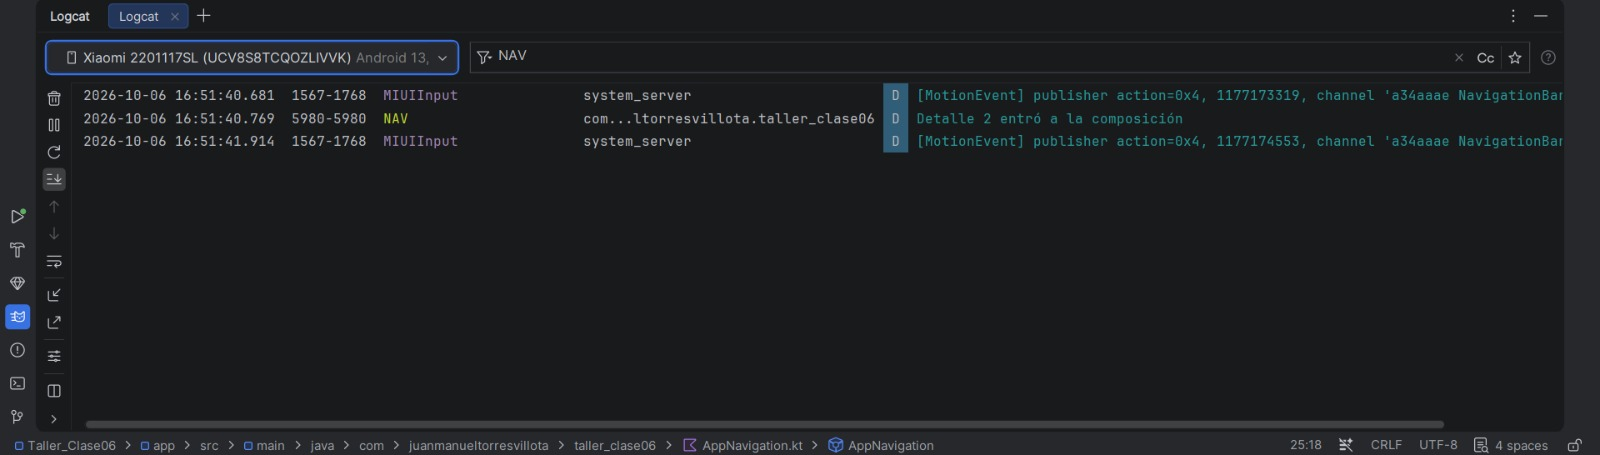
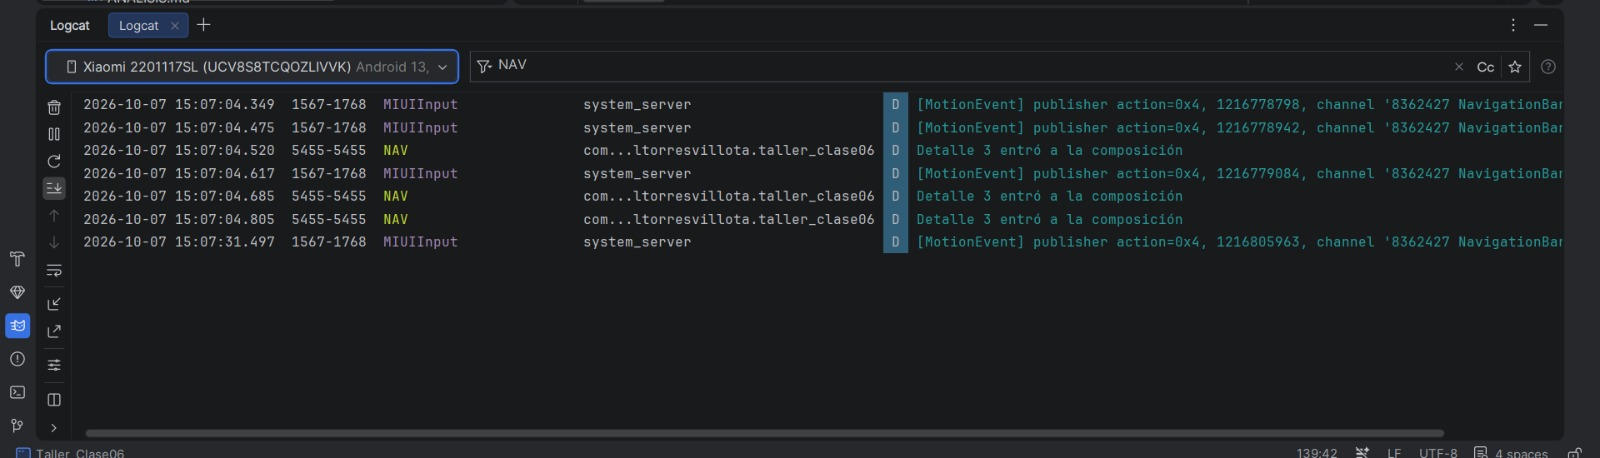
Algunos ajustes y cambios

diff --git a/ANALISIS.md b/ANALISIS.md
@@ -2,6 +2,7 @@
 
 **Curso:** Programación para Dispositivos Móviles — Universidad de Caldas
 **Tema de la lista:** Videojuegos favoritos
+**Dispositivo de prueba:** Xiaomi 2201117SL, Android 13
 
 ---
 
@@ -31,7 +32,6 @@ Aparecieron 3 líneas `Detalle 2 entró a la composición` en un lapso de unos 2
 **Captura de pantalla (antes de la corrección):**
 
 ![Logcat con 3 líneas NAV: bug de navegación duplicada](Capturas/bug_antes.jpeg)
-
 
 **¿Mi predicción coincidió con lo observado?** Sí. Predije que se abriría la cantidad de veces que presionara y así fue: 3 toques produjeron 3 navegaciones y 3 pantallas de detalle apiladas.
 
@@ -77,19 +77,19 @@ onElementoClick = { id ->
 
 **Qué hace `launchSingleTop = true`:** antes de crear un destino nuevo, el controlador de navegación revisa cuál es el destino que está en el tope de la pila. Si es el mismo que se quiere abrir, no apila otra entrada encima, así que en el tope queda un solo detalle. Con esto se corrige la primera causa del bug (que `navigate()` apilaba sin verificar el tope). No cambia la segunda causa: la tarjeta sigue aceptando toques durante la transición, pero ahora esos toques extra ya no crean pantallas nuevas.
 
-**Evidencia después de la corrección** (3 toques rápidos sobre la misma tarjeta):
+**Evidencia después de la corrección** (una sola ejecución, 3 toques rápidos sobre la misma tarjeta, detalle id 3):
 
+- Toques: **3**
+- Líneas en Logcat: **3** (`Detalle 3 entró a la composición`, a las 15:07:04.520, 15:07:04.685 y 15:07:04.805)
 - Veces que presioné "Volver" para llegar a la lista: **1**
-- Líneas en Logcat en la 1.ª prueba (detalle id 2): **1**
-- Líneas en Logcat en la 2.ª prueba (detalle id 3): **2**, separadas por unos 75 ms
 
 | | Antes | Después |
 |---|---|---|
 | Toques | 3 | 3 |
+| Líneas en Logcat | 3 | 3 |
 | "Volver" hasta la lista | 3 | 1 |
-| Líneas en Logcat | 3 | 1 y 2 (dos pruebas) |
 
-**Nota sobre el Logcat:** el `LaunchedEffect` cuenta las veces que una entrada de detalle entra a la composición, no cuántas entradas hay en la pila. Una posible explicación de que en la 2.ª prueba aparecieran 2 líneas es que, con `launchSingleTop`, el controlador reemplaza la entrada del tope por una nueva en lugar de dejar la anterior, y esa entrada nueva vuelve a componerse. La medida más confiable de cuántas pantallas quedaron apiladas es la cantidad de veces que hay que presionar "Volver": pasó de 3 a 1, lo que confirma que la corrección funciona.
+**Nota sobre el Logcat:** el número de líneas es el mismo antes y después, pero la pila no. Esto se debe a que el `LaunchedEffect` cuenta las veces que una entrada de detalle entra a la composición, no cuántas entradas hay en la pila. Una posible explicación es que, con `launchSingleTop`, cada toque hace que el controlador reemplace la entrada del tope por una nueva, que se vuelve a componer, y por eso cada toque deja una línea aunque la pila conserve un solo detalle. En una prueba anterior con la corrección activa vi solo 2 líneas y también bastó una presión de "Volver", por lo que el número de líneas varía según cuántos toques alcanzan a registrarse. La medida confiable de cuántas pantallas quedaron apiladas es la cantidad de presiones de "Volver": pasó de 3 a 1, lo que confirma que la corrección funciona.
 
 **Captura de pantalla (después de la corrección):**
 
